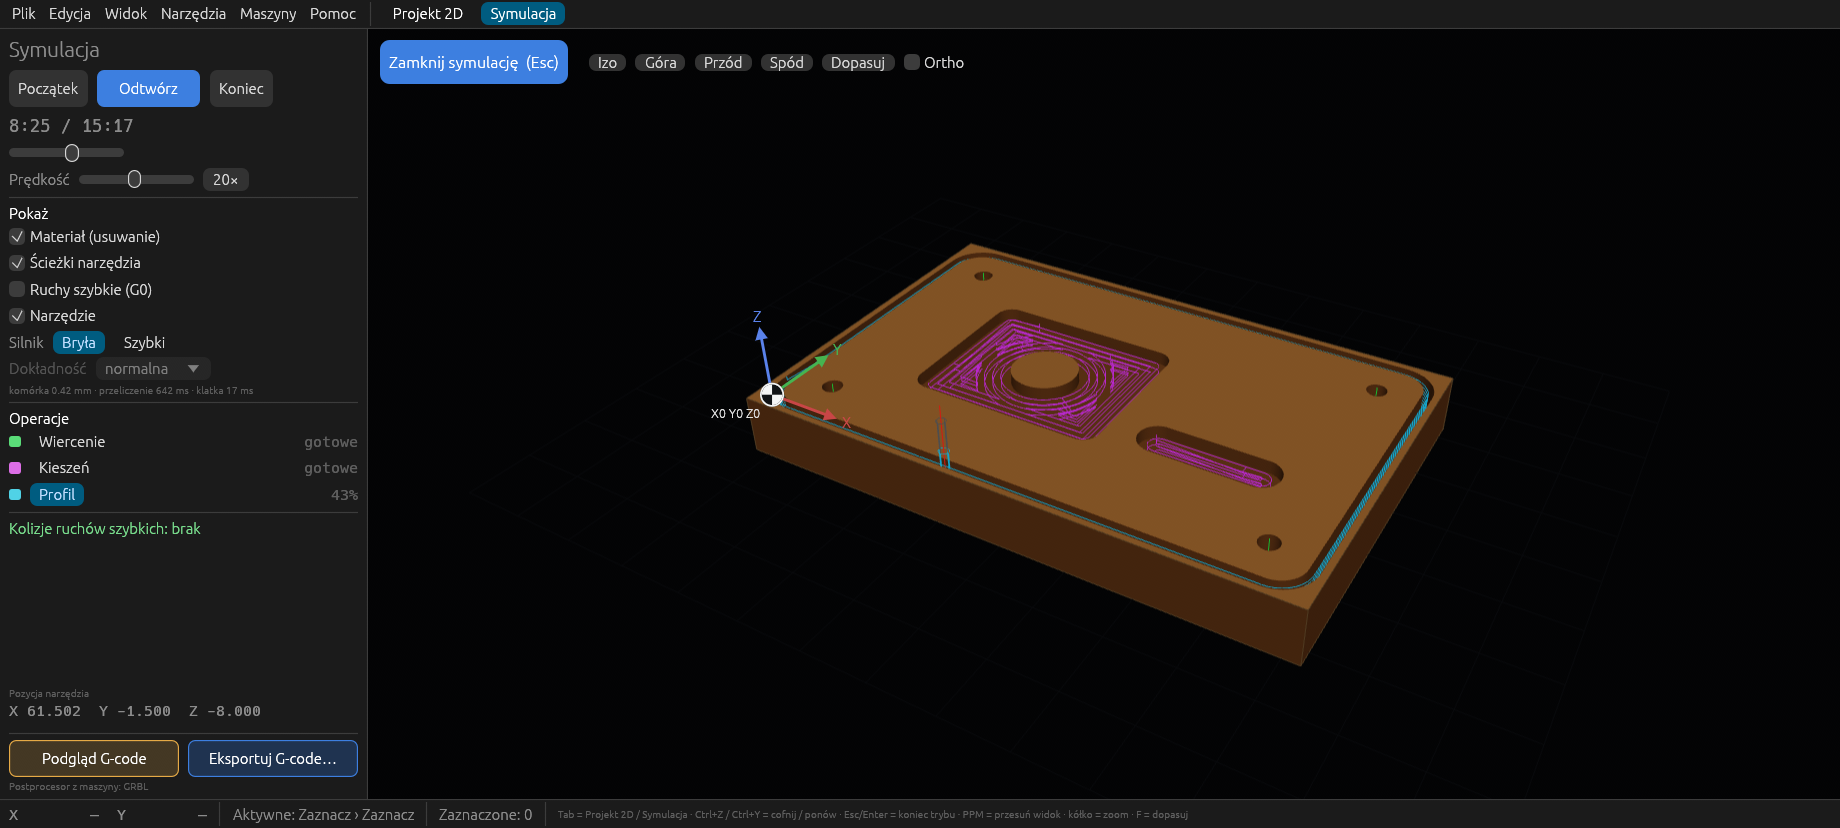
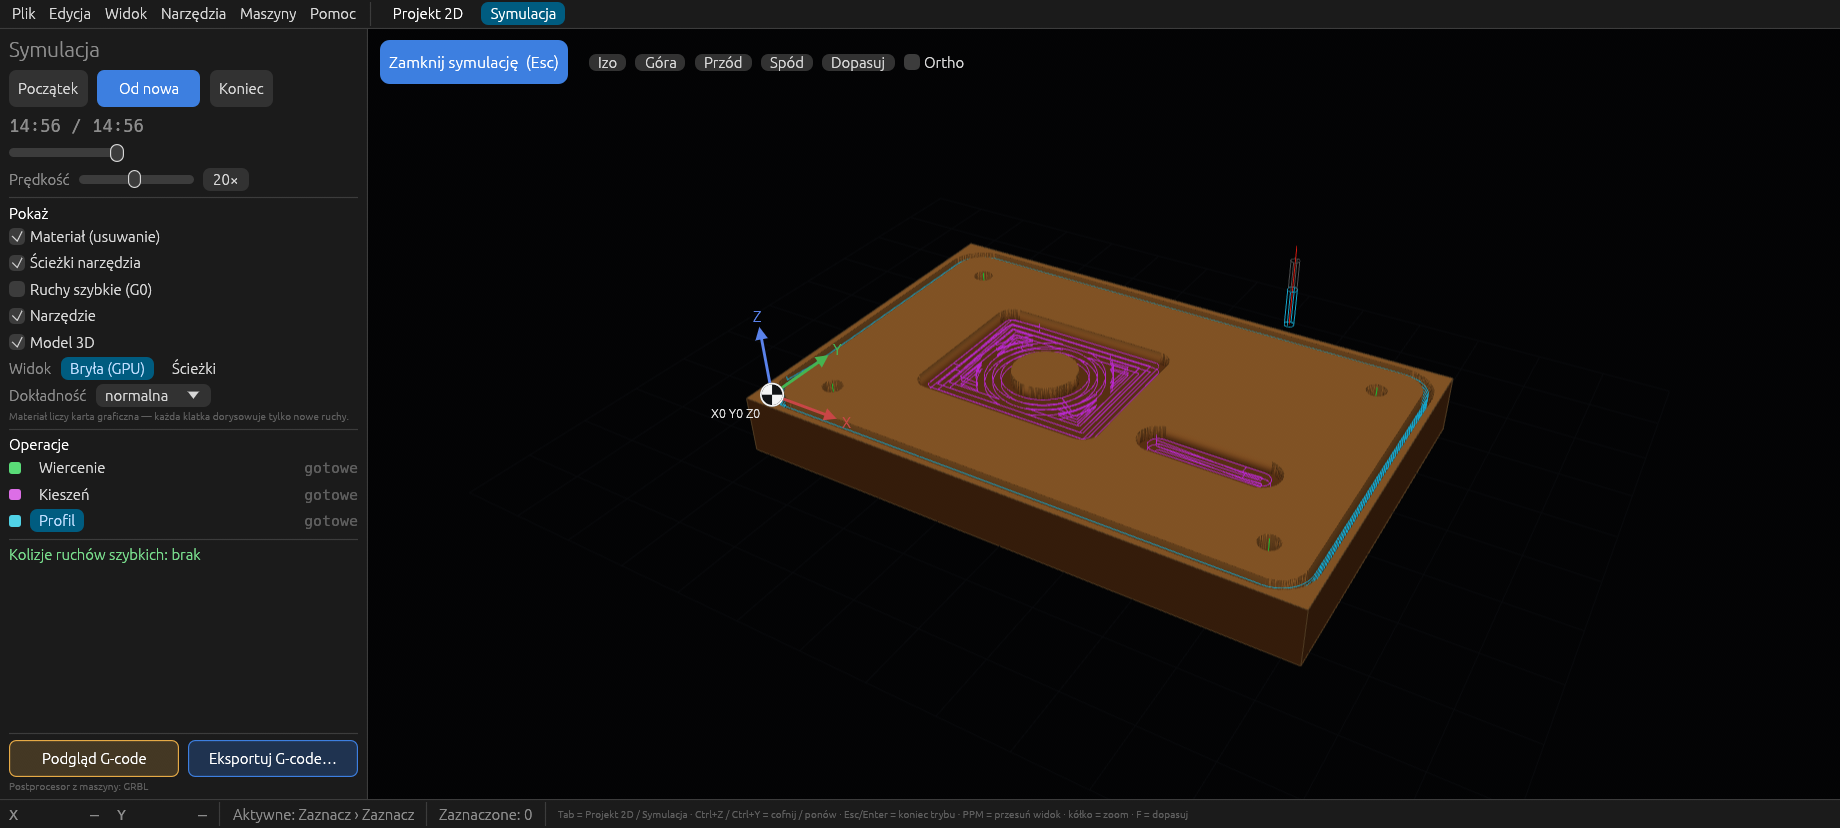
Release 0.7.0

diff --git a/README_pl.md b/README_pl.md
@@ -3,19 +3,19 @@
 **English:** [README.md](README.md) · **Zmiany:** [CHANGELOG.md](CHANGELOG.md) · **Dla programistów:** [DEVELOPMENT.md](DEVELOPMENT.md)
 
 > **Wczesny etap rozwoju — jeszcze nie do użytku.** Millwise jest na bardzo
-> wczesnym etapie (wersja 0.5.0). Zmienia się codziennie, a tworzony G-code
+> wczesnym etapie (wersja 0.7.0). Zmienia się codziennie, a tworzony G-code
 > nie był testowany na prawdziwych maszynach. **Na razie nie zalecamy używania
 > go do sterowania frezarką.** Pierwszą wersję testową dla Linuksa można
 > pobrać (niżej). Uwagi i pomysły chętnie przyjmujemy w zgłoszeniach (Issues).
 
 Millwise to darmowy program CAM dla 3-osiowych frezarek CNC. Z rysunków DXF
-tworzy ścieżki narzędzia i zapisuje G-code dla **GRBL / FluidNC** oraz
-**LinuxCNC**. Jest napisany w Rust i działa na Linuksie (wersji dla Windows na
+i modeli STL tworzy ścieżki narzędzia i zapisuje G-code dla **GRBL /
+FluidNC** oraz **LinuxCNC**. Jest napisany w Rust i działa na Linuksie (wersji dla Windows na
 razie nie planujemy). Interfejs jest po polsku i po angielsku.
 
 ![Główne okno Millwise](docs/screenshot.png)
 
-## Co potrafi (0.5.0)
+## Co potrafi (0.7.0)
 
 - **Import DXF:** linie, łuki, okręgi, polilinie z łukami, splajny, elipsy i
   bloki; luźne elementy są łączone w kontury, cale przeliczane na milimetry.
@@ -32,6 +32,15 @@ razie nie planujemy). Interfejs jest po polsku i po angielsku.
   - **Wiercenie:** pojedyncze, z wycofaniem albo frezowanie otworu po helisie.
   - **Grawer** po linii, z lewej albo z prawej strony linii, z rampą.
   - **V-carving:** frez V, głębokość wynika z szerokości kształtu.
+- **Obróbka 3D modeli STL:** model w półfabrykacie (jednostki, skala,
+  obroty o 90°, naddatek nad modelem), z własną zakładką „Model 3D”.
+  - **Zgrubna** warstwami Z wokół modelu, z dodatkowymi warstwami nad
+    płaskimi miejscami.
+  - **Wykańczająca** równoległa albo warstwicowa (stałe wysokości — strome
+    ściany) oraz **resztki** tylko tam, gdzie większy frez nie sięgnął.
+  - **Wycięcie** po sylwetce modelu z mostkami; sylwetka i obrys na dowolnej
+    wysokości także jako krzywe do operacji 2D.
+  - Ostrzeżenie o podcięciach; ścieżki 3D liczą się w tle.
 - **Napisy** zamieniane na krzywe (wbudowane czcionki albo dowolny plik
   .ttf / .otf).
 - **Automatyzacja:** operacje dla wszystkich wolnych krzywych według warstw,
@@ -46,24 +55,30 @@ razie nie planujemy). Interfejs jest po polsku i po angielsku.
   pokazuje, z czego składa się projekt.
 - **Biblioteka narzędzi** wspólna dla wszystkich projektów, z graficznym
   wyborem rodzaju freza (płaski, kulowy, z promieniem naroża, V, grawerski,
-  wiertło) i parametrami skrawania dla materiałów (drewno, MDF, aluminium,
-  plexi).
+  wiertło), parametrami skrawania dla materiałów (drewno, MDF, aluminium,
+  plexi) i zestawem podstawowym: frezy płaskie, kulowe i V oraz wiertła
+  3, 4 i 6 mm.
 - **Maszyny** z rysunkiem rodzaju maszyny: pole robocze, narożnik bazowania, sterownik, posuwy maksymalne
   i szybkie, wrzeciono, zmiana narzędzia (pauza M0, M6 albo osobne pliki),
   chłodzenie, własny początek i koniec programu. Operacje są sprawdzane
   względem maszyny.
-- **Symulacja 3D** usuwania materiału na prawdziwej bryle (operacje
-  boolowskie): odtwarzanie, przewijanie, postęp operacji, wykrywanie ruchów
-  szybkich w materiale.
+- **Symulacja 3D** usuwania materiału: odtwarzanie, przewijanie, postęp
+  operacji, wykrywanie ruchów szybkich w materiale — liczona przez kartę
+  graficzną (płynnie przy każdej wielkości programu) albo, przy słabej
+  grafice, przez procesor na dokładnej bryle. Widok „Ścieżki” pokazuje model
+  docelowy i aktualnie frezowaną warstwę.
 - **Projekty** (`.millwise`) zapisują rysunek, półfabrykat, operacje i kopie
   użytych narzędzi.
 
 ![Symulacja](docs/screenshot-simulation.png)
 
+![Model 3D i symulacja](docs/screenshot-3d.png)
+
 ## Plany
 
-Import STL i obróbka 3D (drop-cutter), kieszeń adaptacyjna, V-carve, paczki
-dla Linuksa. Co jest gotowe — w CHANGELOG.
+Warstwice tylko na stromych miejscach z równoległą na łagodnych, obróbka 3D
+na stronie B, ścieżki w widoku 2D rysowane przez kartę graficzną, paczki dla
+Linuksa. Szczegóły w [TODO.md](TODO.md) i w CHANGELOG.
 
 ## Pobieranie (Linux)
 
@@ -72,8 +87,8 @@ Na stronie [Releases](https://github.com/cyryllo/millwise/releases) jest
 22.04 lub nowszym i innych dystrybucjach z tego okresu.
 
 ```sh
-chmod +x Millwise-0.5.0-x86_64.AppImage
-./Millwise-0.5.0-x86_64.AppImage
+chmod +x Millwise-0.7.0-x86_64.AppImage
+./Millwise-0.7.0-x86_64.AppImage
 ```
 
 Na kartach NVIDIA i wtedy, gdy domyślna grafika nie otwiera okna, Millwise sam

diff --git a/README.md b/README.md
@@ -3,19 +3,19 @@
 **Po polsku:** [README_pl.md](README_pl.md) · **Changes:** [CHANGELOG.md](CHANGELOG.md) · **For developers:** [DEVELOPMENT.md](DEVELOPMENT.md)
 
 > **Early development — not ready for use.** Millwise is at a very early stage
-> (version 0.5.0). It changes every day and the G-code it writes has not been
+> (version 0.7.0). It changes every day and the G-code it writes has not been
 > tested on real machines. **Please do not use it to run a CNC machine yet.**
 > A first test version for Linux can be downloaded (see below). Feedback and
 > ideas are welcome in the issues.
 
 Millwise is a free CAM program for 3-axis CNC routers and mills. It turns DXF
-drawings into toolpaths and writes G-code for **GRBL / FluidNC** and
-**LinuxCNC**. It is written in Rust and runs on Linux (a Windows version is
+drawings and STL models into toolpaths and writes G-code for **GRBL /
+FluidNC** and **LinuxCNC**. It is written in Rust and runs on Linux (a Windows version is
 not planned for now). The user interface is in Polish and English.
 
 ![Millwise main window](docs/screenshot.png)
 
-## What it does (0.5.0)
+## What it does (0.7.0)
 
 - **DXF import:** lines, arcs, circles, polylines with arcs, splines,
   ellipses and blocks; loose pieces are joined into contours, inches are
@@ -35,6 +35,16 @@ not planned for now). The user interface is in Polish and English.
     entry.
   - **V-carving:** a V cutter with the depth following the width of the
     shape.
+- **3D machining of STL models:** the model sits in the stock (units, scale,
+  90° rotations, stock left above it) and has its own „3D model” tab.
+  - **Roughing** in Z levels around the model, with extra levels above flat
+    areas.
+  - **Finishing** with parallel passes or waterlines (constant heights,
+    for steep walls), and **rest finishing** only where a bigger tool could
+    not reach.
+  - **Cut-out** along the model silhouette with tabs; silhouette and outline
+    at any height also as curves for 2D operations.
+  - Undercut warning; 3D toolpaths are computed in the background.
 - **Text** turned into curves (built-in fonts or any .ttf / .otf).
 - **Automation:** operations for all free curves by layer, corners, tabs by
   perimeter and order by tool in one step.
@@ -48,23 +58,29 @@ not planned for now). The user interface is in Polish and English.
   (with their operations) to the current one; the elements list shows what
   the project is made of.
 - **Tool library** shared by all projects, with a visual choice of the cutter
-  type (flat, ball, bull nose, V, engraving, drill) and cutting data per
-  material (wood, MDF, aluminium, acrylic).
+  type (flat, ball, bull nose, V, engraving, drill), cutting data per
+  material (wood, MDF, aluminium, acrylic) and a basic set of flat, ball and
+  V cutters and drills in 3, 4 and 6 mm.
 - **Machines** with a picture of the machine type: work area, homing corner, controller, feed and rapid limits,
   spindle, tool change (M0 pause, M6 or one file per tool), coolant, custom
   program start and end. Operations are checked against the machine.
-- **3D simulation** of material removal on a real solid (Boolean operations),
-  with playback, seeking, per-operation progress and detection of rapid moves
-  into the material.
+- **3D simulation** of material removal with playback, seeking,
+  per-operation progress and detection of rapid moves into the material —
+  computed by the graphics card (smooth for programs of any size) or, on
+  weak graphics, by the processor on an exact solid. A „Toolpaths” view
+  shows the target model with the layer being cut.
 - **Projects** (`.millwise`) keep the drawing, the stock, the operations and
   copies of the tools used.
 
 ![Simulation](docs/screenshot-simulation.png)
 
+![3D model and simulation](docs/screenshot-3d.png)
+
 ## Planned
 
-STL import and 3D machining (drop-cutter), adaptive pocketing, V-carving,
-Linux packages. See the changelog for what is done.
+Waterlines only on steep areas with parallel passes on the gentle ones, 3D
+on side B, toolpaths drawn by the graphics card in the 2D view, Linux
+packages. See [TODO.md](TODO.md) (in Polish) and the changelog.
 
 ## Download (Linux)
 
@@ -73,8 +89,8 @@ The [Releases](https://github.com/cyryllo/millwise/releases) page has an
 Ubuntu 22.04 or newer and other distributions of that age.
 
 ```sh
-chmod +x Millwise-0.5.0-x86_64.AppImage
-./Millwise-0.5.0-x86_64.AppImage
+chmod +x Millwise-0.7.0-x86_64.AppImage
+./Millwise-0.7.0-x86_64.AppImage
 ```
 
 Millwise chooses OpenGL by itself on NVIDIA cards and when the default

diff --git a/CHANGELOG.md b/CHANGELOG.md
@@ -6,7 +6,7 @@ Version numbers:
 - the **second number** goes up with every release that adds features;
 - the **third number** goes up for releases that only fix bugs.
 
-## Unreleased
+## 0.7.0 (2026-11-15)
 
 ### Added
 
